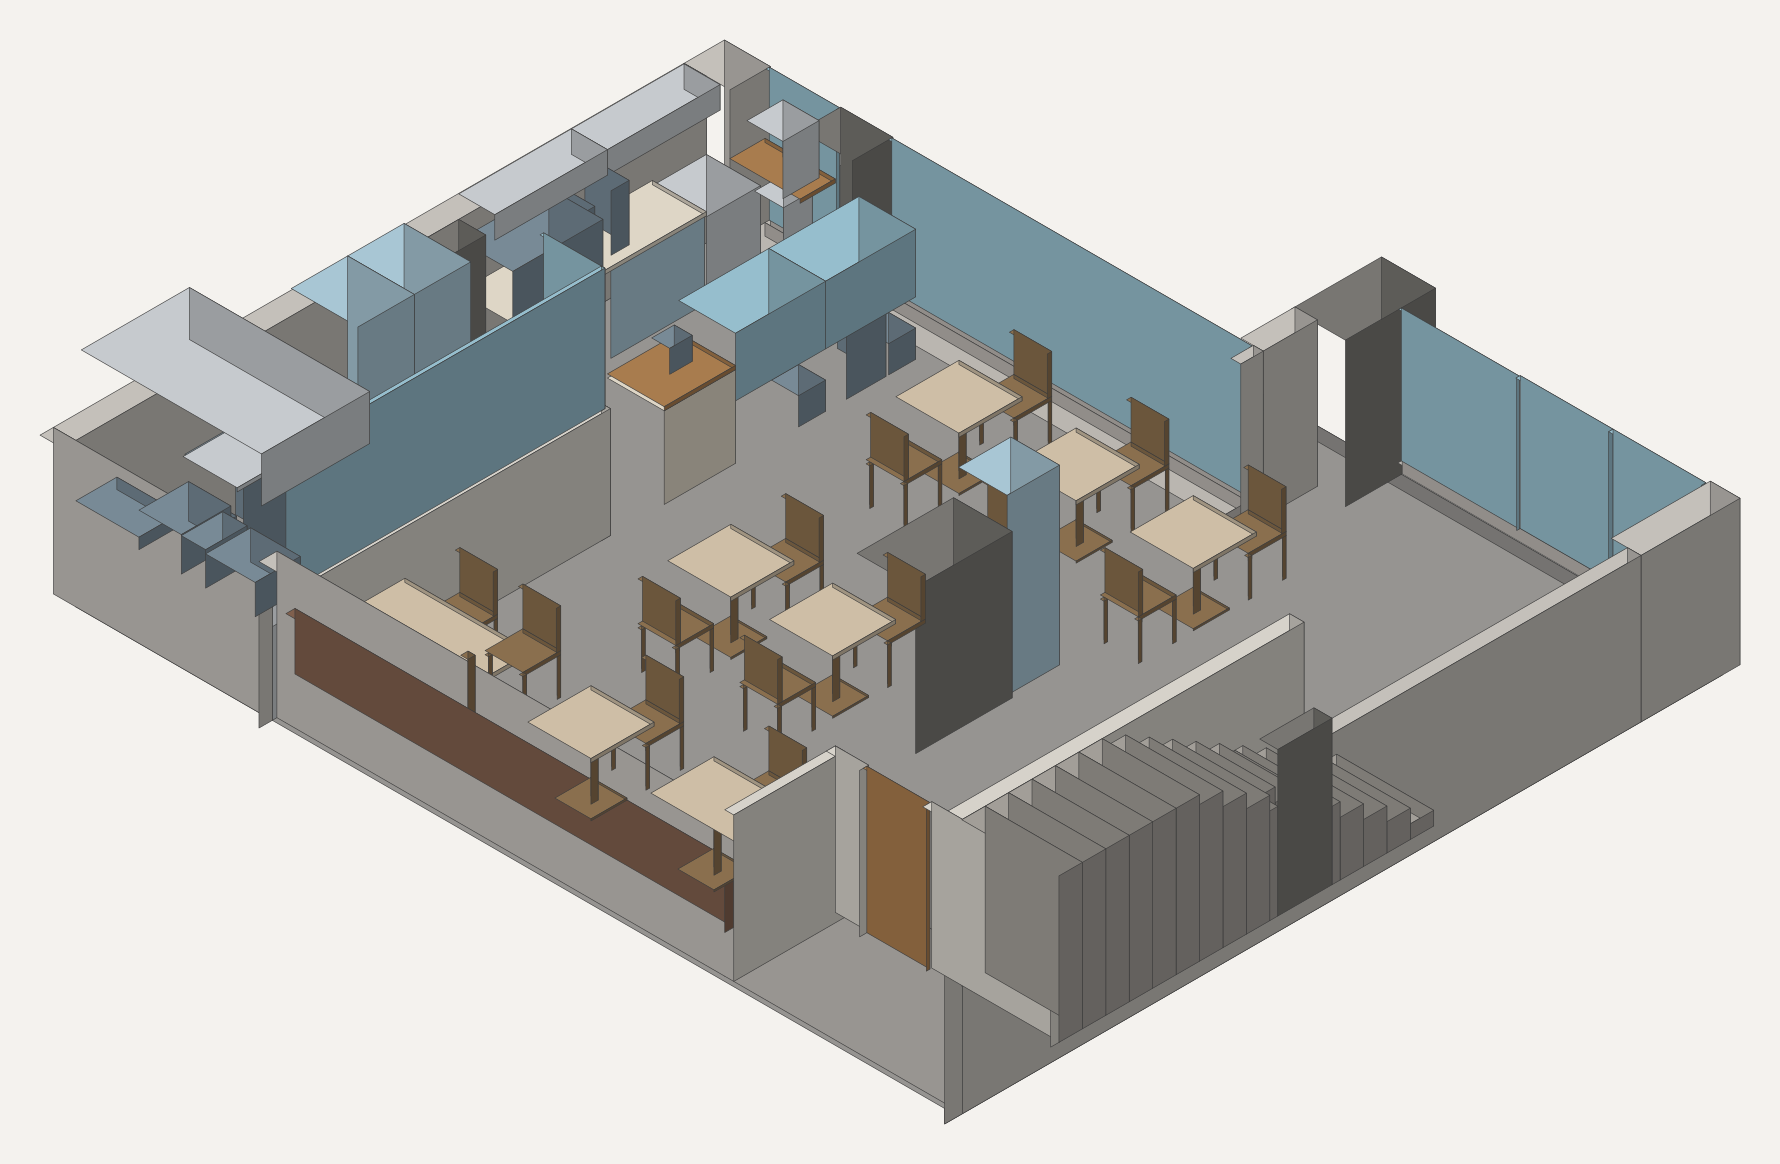
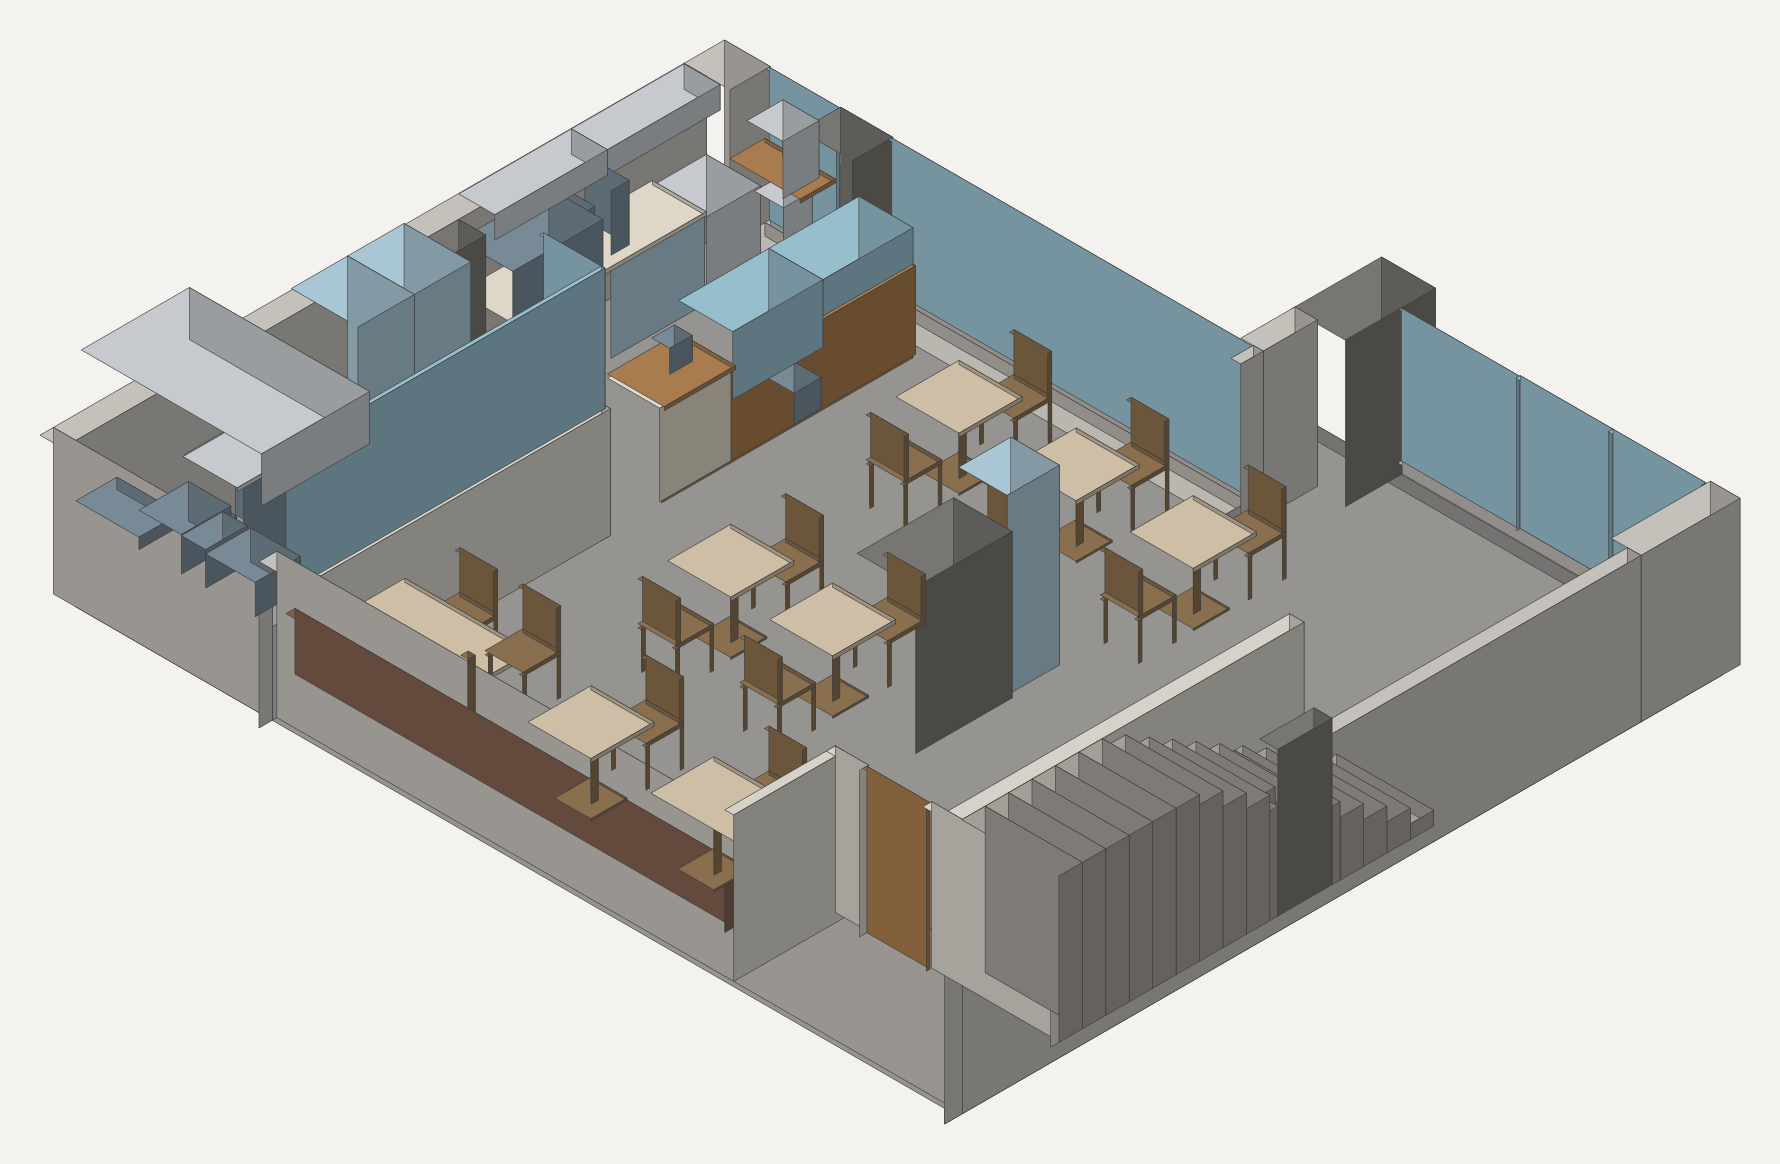
Modelo 3D: aire acondicionado de verdad y frente de barra revestido
Dos cambios pedidos por el cliente sobre el 3D:

1. Fuera los cuatro bloques azules del aire, que eran cajas sueltas
   flotando en mitad de la sala. Cada maquina pasa a ser un cassette de
   techo de 4 vias como los de sus fotos: cuerpo de 0,95 x 0,95 x 0,30,
   panel decorativo de 1,00 x 1,00 por debajo y rejilla de retorno de
   0,90 x 0,50 al lado. Las dos caen en la zona de doble altura, donde el
   forjado no llega, asi que se cuelgan con cuatro tirantes de 0,04 hasta
   el techo: ya no flotan, se ve de que cuelgan. Si en obra van
   empotradas en un falso techo, hay que decir a que altura va.

2. El mostrador lleva ahora en su cara Este, la que ve el cliente y en
   toda su longitud, un revestimiento de madera de 0,03 con un retranqueo
   de 0,05 abajo para la tira de LED. Es donde iran el logo y las luces.
   Se resuelve como los ultimos 3 cm del propio mostrador, asi que la
   cara acabada sigue en 2,530, en la linea de la pared en L, y el
   mostrador no crece. El cuerpo del mostrador, los motores de las
   vitrinas y el lavavasos se retranquean para dejarle sitio.

Los colgantes bajan a 1,70 para no meterse en el panel del cassette.

356 solidos. Sin choques nuevos: el unico que queda es el ya conocido del
lavavasos B1 (0,670) contra el hueco de 0,600 de la vitrina.

Claude-Session: https://claude.ai/code/session_01GVkjTdfNcVVYYVU9z9WU8K

Changed region(s): [[0.4017, 0.2165, 0.5253, 0.4021], [0.3708, 0.4021, 0.4017, 0.433]]

diff --git a/docs/planos/MODELO_3D.rb b/docs/planos/MODELO_3D.rb
@@ -38,6 +38,8 @@
 #      Borde inferior de la campana            2.000 m   estandar
 #      Estante mural de la trasbarra           0.000 m   SUPUESTO — sobre el aparato más alto
 #      Sillon corrido: asiento / respaldo      0.420 m   SUPUESTO — fondo sin medir
+#      Cara inferior de los cassettes de aire  2.010 m   SUPUESTO — COMPROBAR
+#      Revestimiento del frente de la barra    0.900 m   hasta la encimera
 #
 #  CADENA DE OBRA DEL LADO OESTE (la que fijo el cliente)
 #      Cara interior del zocalo del ventanal          1,968
@@ -209,13 +211,15 @@ module Local3D
     ["11 Barra", "frio", "A5 · Botellero frigorífico BTL1000, 2 puertas correderas, 240 L", 0.2500, 2.6110, 0.8300, 3.6510, 0.0000, 0.8500],
     ["11 Barra", "inox", "A6 · Estante mural cartelas compacto Fricosmos 011410, 1250 × 400 × 245 (1)", 0.2500, 3.5090, 0.6500, 4.7590, 1.6000, 1.8450],
     ["11 Barra", "inox", "A6 · Estante mural cartelas compacto Fricosmos 011410, 1250 × 400 × 245 (2)", 0.2500, 2.2590, 0.6500, 3.5090, 1.6000, 1.8450],
-    ["11 Barra", "encimera", "Mostrador delantero a medida", 1.9000, 3.9680, 2.5300, 4.7590, 0.0000, 0.9000],
+    ["11 Barra", "encimera", "Mostrador delantero a medida", 1.9000, 3.9680, 2.4800, 4.7590, 0.0000, 0.9000],
+    ["11 Barra", "madera", "Frente de la barra · revestimiento de madera (logo y LED)", 2.5000, 1.9680, 2.5300, 4.7590, 0.0500, 0.9000],
+    ["11 Barra", "madera", "Frente de la barra · retranqueo inferior para la tira de LED", 2.4800, 1.9680, 2.5000, 4.7590, 0.0000, 0.0500],
     ["11 Barra", "madera", "Mostrador · tabla de madera", 1.9000, 3.9680, 2.5300, 4.7590, 0.9000, 0.9400],
-    ["11 Barra", "aparato", "V2 · motor", 2.2300, 1.9680, 2.5300, 2.2680, 0.0000, 0.3000],
-    ["11 Barra", "vidrio", "V2 · Vitrina refrigerada (comprada), 1,00 × 0,70; debajo, lavavasos", 1.9000, 1.9680, 2.5300, 2.9680, 0.6000, 1.2500],
-    ["11 Barra", "aparato", "V1 · motor", 2.2300, 2.9680, 2.5300, 3.2680, 0.0000, 0.3000],
-    ["11 Barra", "vidrio", "V1 · Vitrina refrigerada (comprada), 1,00 × 0,70; hueco libre debajo", 1.9000, 2.9680, 2.5300, 3.9680, 0.6000, 1.2500],
-    ["11 Barra", "aparato", "B1 · Lavavasos Elettrobar FAST 40, cesta 40 × 40 (bajo la vitrina V2)", 1.9900, 2.2980, 2.5300, 2.7380, 0.0000, 0.6700],
+    ["11 Barra", "aparato", "V2 · motor", 2.1800, 1.9680, 2.4800, 2.2680, 0.0000, 0.3000],
+    ["11 Barra", "vidrio", "V2 · Vitrina refrigerada (comprada), 1,00 × 0,70; debajo, lavavasos", 1.9000, 1.9680, 2.5000, 2.9680, 0.6000, 1.2500],
+    ["11 Barra", "aparato", "V1 · motor", 2.1800, 2.9680, 2.4800, 3.2680, 0.0000, 0.3000],
+    ["11 Barra", "vidrio", "V1 · Vitrina refrigerada (comprada), 1,00 × 0,70; hueco libre debajo", 1.9000, 2.9680, 2.5000, 3.9680, 0.6000, 1.2500],
+    ["11 Barra", "aparato", "B1 · Lavavasos Elettrobar FAST 40, cesta 40 × 40 (bajo la vitrina V2)", 1.9400, 2.2980, 2.4800, 2.7380, 0.0000, 0.6700],
     ["11 Barra", "aparato", "B3 · Caja: tablet sobre soporte (lo único que queda en el mostrador)", 2.0500, 4.1680, 2.2500, 4.4180, 0.9400, 1.1900],
     ["11 Barra", "madera", "Tabla de P2", 0.5100, 1.6210, 1.2900, 2.0110, 0.9000, 0.9400],
     ["11 Barra", "inox", "B4 · Columna de cerveza en T de 3 grifos, bandeja 40 × 40, sobre la tabla de P2", 0.7900, 1.7010, 1.1900, 2.1010, 0.9400, 1.4900],
@@ -342,10 +346,20 @@ module Local3D
     ["12 Sala", "sillon", "Sillón corrido · respaldo", 2.5300, 8.8570, 7.4000, 8.9570, 0.4200, 1.0500],
     ["13 Instalaciones", "luz", "Aplique 1", 0.2500, 5.6500, 0.3700, 5.8500, 1.9500, 2.2500],
     ["13 Instalaciones", "luz", "Aplique 2", 0.2500, 6.3500, 0.3700, 6.5500, 1.9500, 2.2500],
-    ["13 Instalaciones", "aire", "AC1 · Cassette de techo 4 vias + rejilla", 4.5250, 3.2250, 5.4750, 4.1750, 2.0600, 2.3100],
+    ["13 Instalaciones", "aire", "AC1 · Cassette de techo 4 vias + rejilla · cuerpo", 4.5250, 3.2250, 5.4750, 4.1750, 2.0100, 2.3100],
+    ["13 Instalaciones", "aire", "AC1 · panel de 4 vías", 4.5000, 3.2000, 5.5000, 4.2000, 1.9800, 2.0100],
     ["13 Instalaciones", "aire", "AC1 · rejilla de retorno", 4.5500, 4.2350, 5.4500, 4.7350, 2.2500, 2.3100],
-    ["13 Instalaciones", "aire", "AC2 · Cassette de techo 4 vias + rejilla", 8.4750, 2.1250, 9.4250, 3.0750, 2.0600, 2.3100],
+    ["13 Instalaciones", "aire", "AC1 · tirante de cuelgue", 4.5850, 3.2850, 4.6250, 3.3250, 2.3100, 5.0600],
+    ["13 Instalaciones", "aire", "AC1 · tirante de cuelgue", 4.5850, 4.0750, 4.6250, 4.1150, 2.3100, 5.0600],
+    ["13 Instalaciones", "aire", "AC1 · tirante de cuelgue", 5.3750, 3.2850, 5.4150, 3.3250, 2.3100, 5.0600],
+    ["13 Instalaciones", "aire", "AC1 · tirante de cuelgue", 5.3750, 4.0750, 5.4150, 4.1150, 2.3100, 5.0600],
+    ["13 Instalaciones", "aire", "AC2 · Cassette de techo 4 vias + rejilla · cuerpo", 8.4750, 2.1250, 9.4250, 3.0750, 2.0100, 2.3100],
+    ["13 Instalaciones", "aire", "AC2 · panel de 4 vías", 8.4500, 2.1000, 9.4500, 3.1000, 1.9800, 2.0100],
     ["13 Instalaciones", "aire", "AC2 · rejilla de retorno", 8.5000, 3.1350, 9.4000, 3.6350, 2.2500, 2.3100],
+    ["13 Instalaciones", "aire", "AC2 · tirante de cuelgue", 8.5350, 2.1850, 8.5750, 2.2250, 2.3100, 5.0600],
+    ["13 Instalaciones", "aire", "AC2 · tirante de cuelgue", 8.5350, 2.9750, 8.5750, 3.0150, 2.3100, 5.0600],
+    ["13 Instalaciones", "aire", "AC2 · tirante de cuelgue", 9.3250, 2.1850, 9.3650, 2.2250, 2.3100, 5.0600],
+    ["13 Instalaciones", "aire", "AC2 · tirante de cuelgue", 9.3250, 2.9750, 9.3650, 3.0150, 2.3100, 5.0600],
     ["14 Planta alta", "tabique", "Tabique Oeste del aseo", 2.4610, 7.5090, 2.5600, 8.9570, 2.5600, 5.0600],
     ["14 Planta alta", "tabique", "Tabique Sur - tramo Oeste", 2.5600, 7.5090, 3.0890, 7.6070, 2.5600, 5.0600],
     ["14 Planta alta", "tabique", "Tabique Sur - tramo Este", 3.8490, 7.5090, 7.5110, 7.6070, 2.5600, 5.0600],
@@ -473,12 +487,12 @@ module Local3D
     ["13 Instalaciones", "luz", "Empotrado 11", 2.6000, 8.5000, 0.0450, 2.2900, 2.3100],
     ["13 Instalaciones", "luz", "Empotrado 12", 4.1000, 8.5000, 0.0450, 2.2900, 2.3100],
     ["13 Instalaciones", "luz", "Empotrado 13", 8.6000, 8.5000, 0.0450, 2.2900, 2.3100],
-    ["13 Instalaciones", "luz", "Colgante 1", 2.0400, 2.2800, 0.1300, 1.9000, 2.1200],
-    ["13 Instalaciones", "luz", "Colgante 2", 2.0400, 3.5800, 0.1300, 1.9000, 2.1200],
-    ["13 Instalaciones", "luz", "Colgante 3", 4.6000, 3.2000, 0.1300, 1.9000, 2.1200],
-    ["13 Instalaciones", "luz", "Colgante 4", 7.6000, 3.2000, 0.1300, 1.9000, 2.1200],
-    ["13 Instalaciones", "luz", "Colgante 5", 7.3000, 0.9500, 0.1300, 1.9000, 2.1200],
-    ["13 Instalaciones", "luz", "Colgante 6", 8.9000, 0.9500, 0.1300, 1.9000, 2.1200],
+    ["13 Instalaciones", "luz", "Colgante 1", 2.0400, 2.2800, 0.1300, 1.7000, 1.9200],
+    ["13 Instalaciones", "luz", "Colgante 2", 2.0400, 3.5800, 0.1300, 1.7000, 1.9200],
+    ["13 Instalaciones", "luz", "Colgante 3", 4.6000, 3.2000, 0.1300, 1.7000, 1.9200],
+    ["13 Instalaciones", "luz", "Colgante 4", 7.6000, 3.2000, 0.1300, 1.7000, 1.9200],
+    ["13 Instalaciones", "luz", "Colgante 5", 7.3000, 0.9500, 0.1300, 1.7000, 1.9200],
+    ["13 Instalaciones", "luz", "Colgante 6", 8.9000, 0.9500, 0.1300, 1.7000, 1.9200],
     ["14 Planta alta", "mesa", "R1 · tablero", 7.5400, 5.4300, 0.6000, 3.2700, 3.3100],
     ["14 Planta alta", "silla", "R1 · pie", 7.5400, 5.4300, 0.0600, 2.5600, 3.2700],
     ["14 Planta alta", "silla", "R1 · base", 7.5400, 5.4300, 0.2200, 2.5600, 2.5800],

diff --git a/docs/planos/export_sketchup.py b/docs/planos/export_sketchup.py
@@ -39,13 +39,18 @@ H_SILLON    = 0.420     # asiento del sillon corrido
 H_SILLON_R  = 1.050     # coronacion del respaldo del sillon
 E_SILLON_R  = 0.100
 H_BARRA_MAD = 0.040     # canto de la tabla de madera del mostrador
+REV_E       = 0.030     # revestimiento de madera del frente de la barra
+REV_ZOC_H   = 0.050     # retranqueo inferior, para la linea de LED
+REV_ZOC_E   = 0.020     # cuanto se mete hacia dentro ese retranqueo
 Z_ESTANTE   = None      # se calcula: por encima del aparato mas alto de la mesada
-Z_AIRE      = 2.310     # cassettes de aire colgados al nivel del sofito
-H_AIRE      = 0.250
+Z_AIRE      = 2.310     # cara superior del cassette, al nivel del sofito
+H_AIRE      = 0.300     # fondo del cassette de techo
+H_MARCO     = 0.030     # panel decorativo, sobresale del cuerpo
 H_REJILLA   = 0.060
+E_TIRANTE   = 0.040     # varillas de cuelgue del cassette
 D_EMPOTRADO = 0.090     # diametro de los empotrados
 H_COLGANTE  = 0.220     # alto de la pantalla de los colgantes
-Z_COLGANTE  = 1.900     # borde inferior de los colgantes, por debajo del aire
+Z_COLGANTE  = 1.700     # borde inferior de los colgantes, por debajo del aire
 H_APLIQUE   = 0.300
 Z_APLIQUE   = 1.950     # por encima de los armarios K8/K9 (1,865)
 Z_DINTEL_F  = None      # banda de fachada sobre el acristalamiento
@@ -69,6 +74,8 @@ ALTURAS_DOC = [
     ('Borde inferior de la campana', Q.H_CAMPANA, 'estandar'),
     ('Estante mural de la trasbarra', 0.0, 'SUPUESTO — sobre el aparato más alto'),
     ('Sillon corrido: asiento / respaldo', H_SILLON, 'SUPUESTO — fondo sin medir'),
+    ('Cara inferior de los cassettes de aire', Z_AIRE - H_AIRE, 'SUPUESTO — COMPROBAR'),
+    ('Revestimiento del frente de la barra', Q.H_ENCIMERA, 'hasta la encimera'),
 ]
 
 P1N = next(p for p in E.PILARES if p[0] == 'P1')[5]
@@ -349,8 +356,22 @@ my0, my1 = Q.MOSTRADOR_Y
 bm = Q.BARRA_MADERA
 # El mostrador solo es macizo bajo la tabla de madera: el tramo Sur lo
 # ocupan las dos vitrinas, que son muebles con su propio cuerpo.
+MX_INT = round(mx1 - REV_E - REV_ZOC_E, 3)   # cara interior del revestimiento
 caja('11 Barra', 'encimera', 'Mostrador delantero a medida',
-     mx0, bm['y0'], mx1, my1, 0.0, Q.H_ENCIMERA)
+     mx0, bm['y0'], MX_INT, my1, 0.0, Q.H_ENCIMERA)
+
+# --- Revestimiento de madera del frente de la barra (cara Este, la que ve el
+#     cliente), en toda su longitud: es donde iran el logo y las luces LED.
+#     Se resuelve como los ultimos 0,03 del mostrador, asi que la cara
+#     acabada sigue cayendo en 2,530, en la linea de la pared en L, y el
+#     mostrador no crece. Abajo se deja un retranqueo de 0,05 para la tira
+#     de LED, como en las fotos.
+caja('11 Barra', 'madera',
+     'Frente de la barra · revestimiento de madera (logo y LED)',
+     mx1 - REV_E, my0, mx1, my1, REV_ZOC_H, Q.H_ENCIMERA)
+caja('11 Barra', 'madera',
+     'Frente de la barra · retranqueo inferior para la tira de LED',
+     mx1 - REV_E - REV_ZOC_E, my0, mx1 - REV_E, my1, 0.0, REV_ZOC_H)
 caja('11 Barra', 'madera', 'Mostrador · tabla de madera',
      mx0, bm['y0'], mx1, bm['y1'], Q.H_ENCIMERA, Q.H_ENCIMERA + H_BARRA_MAD)
 # Las vitrinas se dibujan con el fondo del mostrador (0,63) y no con los
@@ -360,14 +381,15 @@ vy = my0
 for p in Q.VITRINAS:
     vt = Q.VITRINA
     caja('11 Barra', 'aparato', f"{p['tag']} · motor",
-         mx1 - vt['motor'][1], vy, mx1, vy + vt['motor'][0], 0.0, vt['motor'][1])
+         MX_INT - vt['motor'][1], vy, MX_INT, vy + vt['motor'][0],
+         0.0, vt['motor'][1])
     caja('11 Barra', 'vidrio', f"{p['tag']} · {p['nombre']}",
-         mx0, vy, mx1, vy + p['a'], vt['hueco_bajo'], p['h'])
+         mx0, vy, mx1 - REV_E, vy + p['a'], vt['hueco_bajo'], p['h'])
     vy += p['a']
 lv = Q.LAVAVASOS
 _ly0 = my0 + Q.VITRINA['motor'][0] + 0.030
 caja('11 Barra', 'aparato', f"{lv['tag']} · {lv['nombre']}",
-     mx1 - lv['f'], _ly0, mx1, _ly0 + lv['a'], 0.0, lv['h'])
+     MX_INT - lv['f'], _ly0, MX_INT, _ly0 + lv['a'], 0.0, lv['h'])
 tb = Q.TABLET
 caja('11 Barra', 'aparato', f"{tb['tag']} · {tb['nombre']}",
      mx0 + 0.150, bm['y0'] + 0.200, mx0 + 0.150 + tb['f'],
@@ -463,14 +485,35 @@ for i, (cx, cy) in enumerate(E.APLIQUES, 1):
     caja('13 Instalaciones', 'luz', f'Aplique {i}',
          cx - 0.060, cy - 0.100, cx + 0.060, cy + 0.100,
          Z_APLIQUE, Z_APLIQUE + H_APLIQUE)
+# --- Aire acondicionado: cassettes de techo de 4 vias, como los de las fotos
+#     del cliente. Ya no se dibujan como una caja suelta flotando: cada
+#     maquina lleva su cuerpo, su panel decorativo por debajo y, como las dos
+#     caen en la zona de DOBLE ALTURA (el forjado del altillo no llega hasta
+#     ellas), cuatro varillas de cuelgue hasta el techo. Si en obra van
+#     empotradas en un falso techo, hay que decir a que altura va ese techo.
 rw, rh = E.AIRE_REJILLA
+FORJ_XS = [q[0] for q in E.FORJADO]
+FORJ_YS = [q[1] for q in E.FORJADO]
 for tag, nm, cx, cy, a, f in E.AIRE:
-    caja('13 Instalaciones', 'aire', f'{tag} · {nm}',
-         cx - a / 2, cy - f / 2, cx + a / 2, cy + f / 2,
-         Z_AIRE - H_AIRE, Z_AIRE)
+    x0, x1 = cx - a / 2, cx + a / 2
+    y0, y1 = cy - f / 2, cy + f / 2
+    caja('13 Instalaciones', 'aire', f'{tag} · {nm} · cuerpo',
+         x0, y0, x1, y1, Z_AIRE - H_AIRE, Z_AIRE)
+    caja('13 Instalaciones', 'aire', f'{tag} · panel de 4 vías',
+         x0 - 0.025, y0 - 0.025, x1 + 0.025, y1 + 0.025,
+         Z_AIRE - H_AIRE - H_MARCO, Z_AIRE - H_AIRE)
     caja('13 Instalaciones', 'aire', f'{tag} · rejilla de retorno',
-         cx - rw / 2, cy + f / 2 + 0.060, cx + rw / 2, cy + f / 2 + 0.060 + rh,
+         cx - rw / 2, y1 + 0.060, cx + rw / 2, y1 + 0.060 + rh,
          Z_AIRE - H_REJILLA, Z_AIRE)
+    # cuelgue: solo si por encima no hay forjado donde empotrarlo
+    bajo_forjado = (min(FORJ_XS) <= x0 and x1 <= max(FORJ_XS)
+                    and min(FORJ_YS) <= y0 and y1 <= max(FORJ_YS)
+                    and y0 >= 3.939)
+    if not bajo_forjado:
+        for tx in (x0 + 0.060, x1 - 0.060 - E_TIRANTE):
+            for ty in (y0 + 0.060, y1 - 0.060 - E_TIRANTE):
+                caja('13 Instalaciones', 'aire', f'{tag} · tirante de cuelgue',
+                     tx, ty, tx + E_TIRANTE, ty + E_TIRANTE, Z_AIRE, Z_TECHO)
 
 # ============================================================ PLANTA ALTA
 for nm, x0, y0, x1, y1 in E.TABIQUES_PA:

diff --git a/docs/planos/vista_3d.py b/docs/planos/vista_3d.py
@@ -19,6 +19,10 @@ def hexa(rgb, f=1.0):
     return '#%02x%02x%02x' % tuple(max(0, min(255, int(c * f))) for c in rgb)
 
 PLANTA = os.environ.get('PLANTA', 'baja')
+ZONA = os.environ.get('ZONA')
+ZONA = [float(v) for v in ZONA.split(',')] if ZONA else None
+def fuera(x0, y0, x1, y1):
+    return ZONA and (x1 <= ZONA[0] or x0 >= ZONA[2] or y1 <= ZONA[1] or y0 >= ZONA[3])
 Z_BASE = 2.560 if PLANTA == 'alta' else 0.0
 solidos = []
 for tg, mt, nm, x0, y0, x1, y1, z0, z1 in X.cajas:
@@ -30,20 +34,21 @@ for tg, mt, nm, x0, y0, x1, y1, z0, z1 in X.cajas:
         continue
     if tg in ALTAS or PLANTA == 'alta':
         z1 = min(z1, Z_BASE + CORTE)
-    if z1 <= z0:
+    if z1 <= z0 or fuera(x0, y0, x1, y1):
         continue
     solidos.append((tg, mt, x0, y0, x1, y1, z0, z1))
 for tg, mt, nm, pts, z0, z1 in X.prismas:
     if tg != ('09 Forjado' if PLANTA == 'alta' else '01 Solera'):
         continue
     xs = [p[0] for p in pts]; ys = [p[1] for p in pts]
+    if fuera(min(xs), min(ys), max(xs), max(ys)): continue
     solidos.append((tg, mt, min(xs), min(ys), max(xs), max(ys), z0, z1))
 for tg, mt, nm, cx, cy, r, z0, z1 in X.cilindros:
     if PLANTA == 'alta':
         if z1 <= 2.560 + 1e-6: continue
         z0 = max(z0, 2.560)
     z1 = min(z1, Z_BASE + CORTE)
-    if z1 <= z0: continue
+    if z1 <= z0 or fuera(cx - r, cy - r, cx + r, cy + r): continue
     solidos.append((tg, mt, cx - r, cy - r, cx + r, cy + r, z0, z1))
 
 solidos.sort(key=lambda s: (s[2] + s[3] + s[6]))

diff --git a/docs/planos/README.md b/docs/planos/README.md
@@ -429,6 +429,20 @@ vez en la cabecera del `.rb`, cada una con su origen (medida, estandar o
 SUPUESTA). Las supuestas son el canto del forjado (0,250), el intrados de la
 viga P1b (2,100), el alto del zocalo del ventanal (0,450) y el sillon.
 
+**Aire acondicionado.** Las dos maquinas son cassettes de techo de 4 vias,
+como los de las fotos del cliente: cuerpo de 0,95 x 0,95 x 0,30, panel
+decorativo por debajo (1,00 x 1,00) y rejilla de retorno de 0,90 x 0,50 al
+lado. Las dos caen en la zona de doble altura, donde el forjado del altillo
+no llega, asi que se cuelgan con cuatro tirantes hasta el techo. Si en obra
+van empotradas en un falso techo, hace falta saber a que altura va ese techo.
+
+**Frente de la barra.** El mostrador lleva en su cara Este —la que ve el
+cliente, y en toda su longitud— un revestimiento de madera de 0,03, con un
+retranqueo de 0,05 en la parte baja para la tira de LED. Es donde iran el
+logo y las luces. Se resuelve como los ultimos 3 cm del propio mostrador, asi
+que la cara acabada sigue cayendo en 2,530, en la linea de la pared en L, y
+el mostrador no crece.
+
 **Conflictos que el 3D deja a la vista.** Son del proyecto, no del modelo, y
 por eso no se arreglan inventando: van listados en la cabecera del `.rb`. Los
 importantes: el vidrio de la pared en L corona en 2,570 y el forjado arranca
